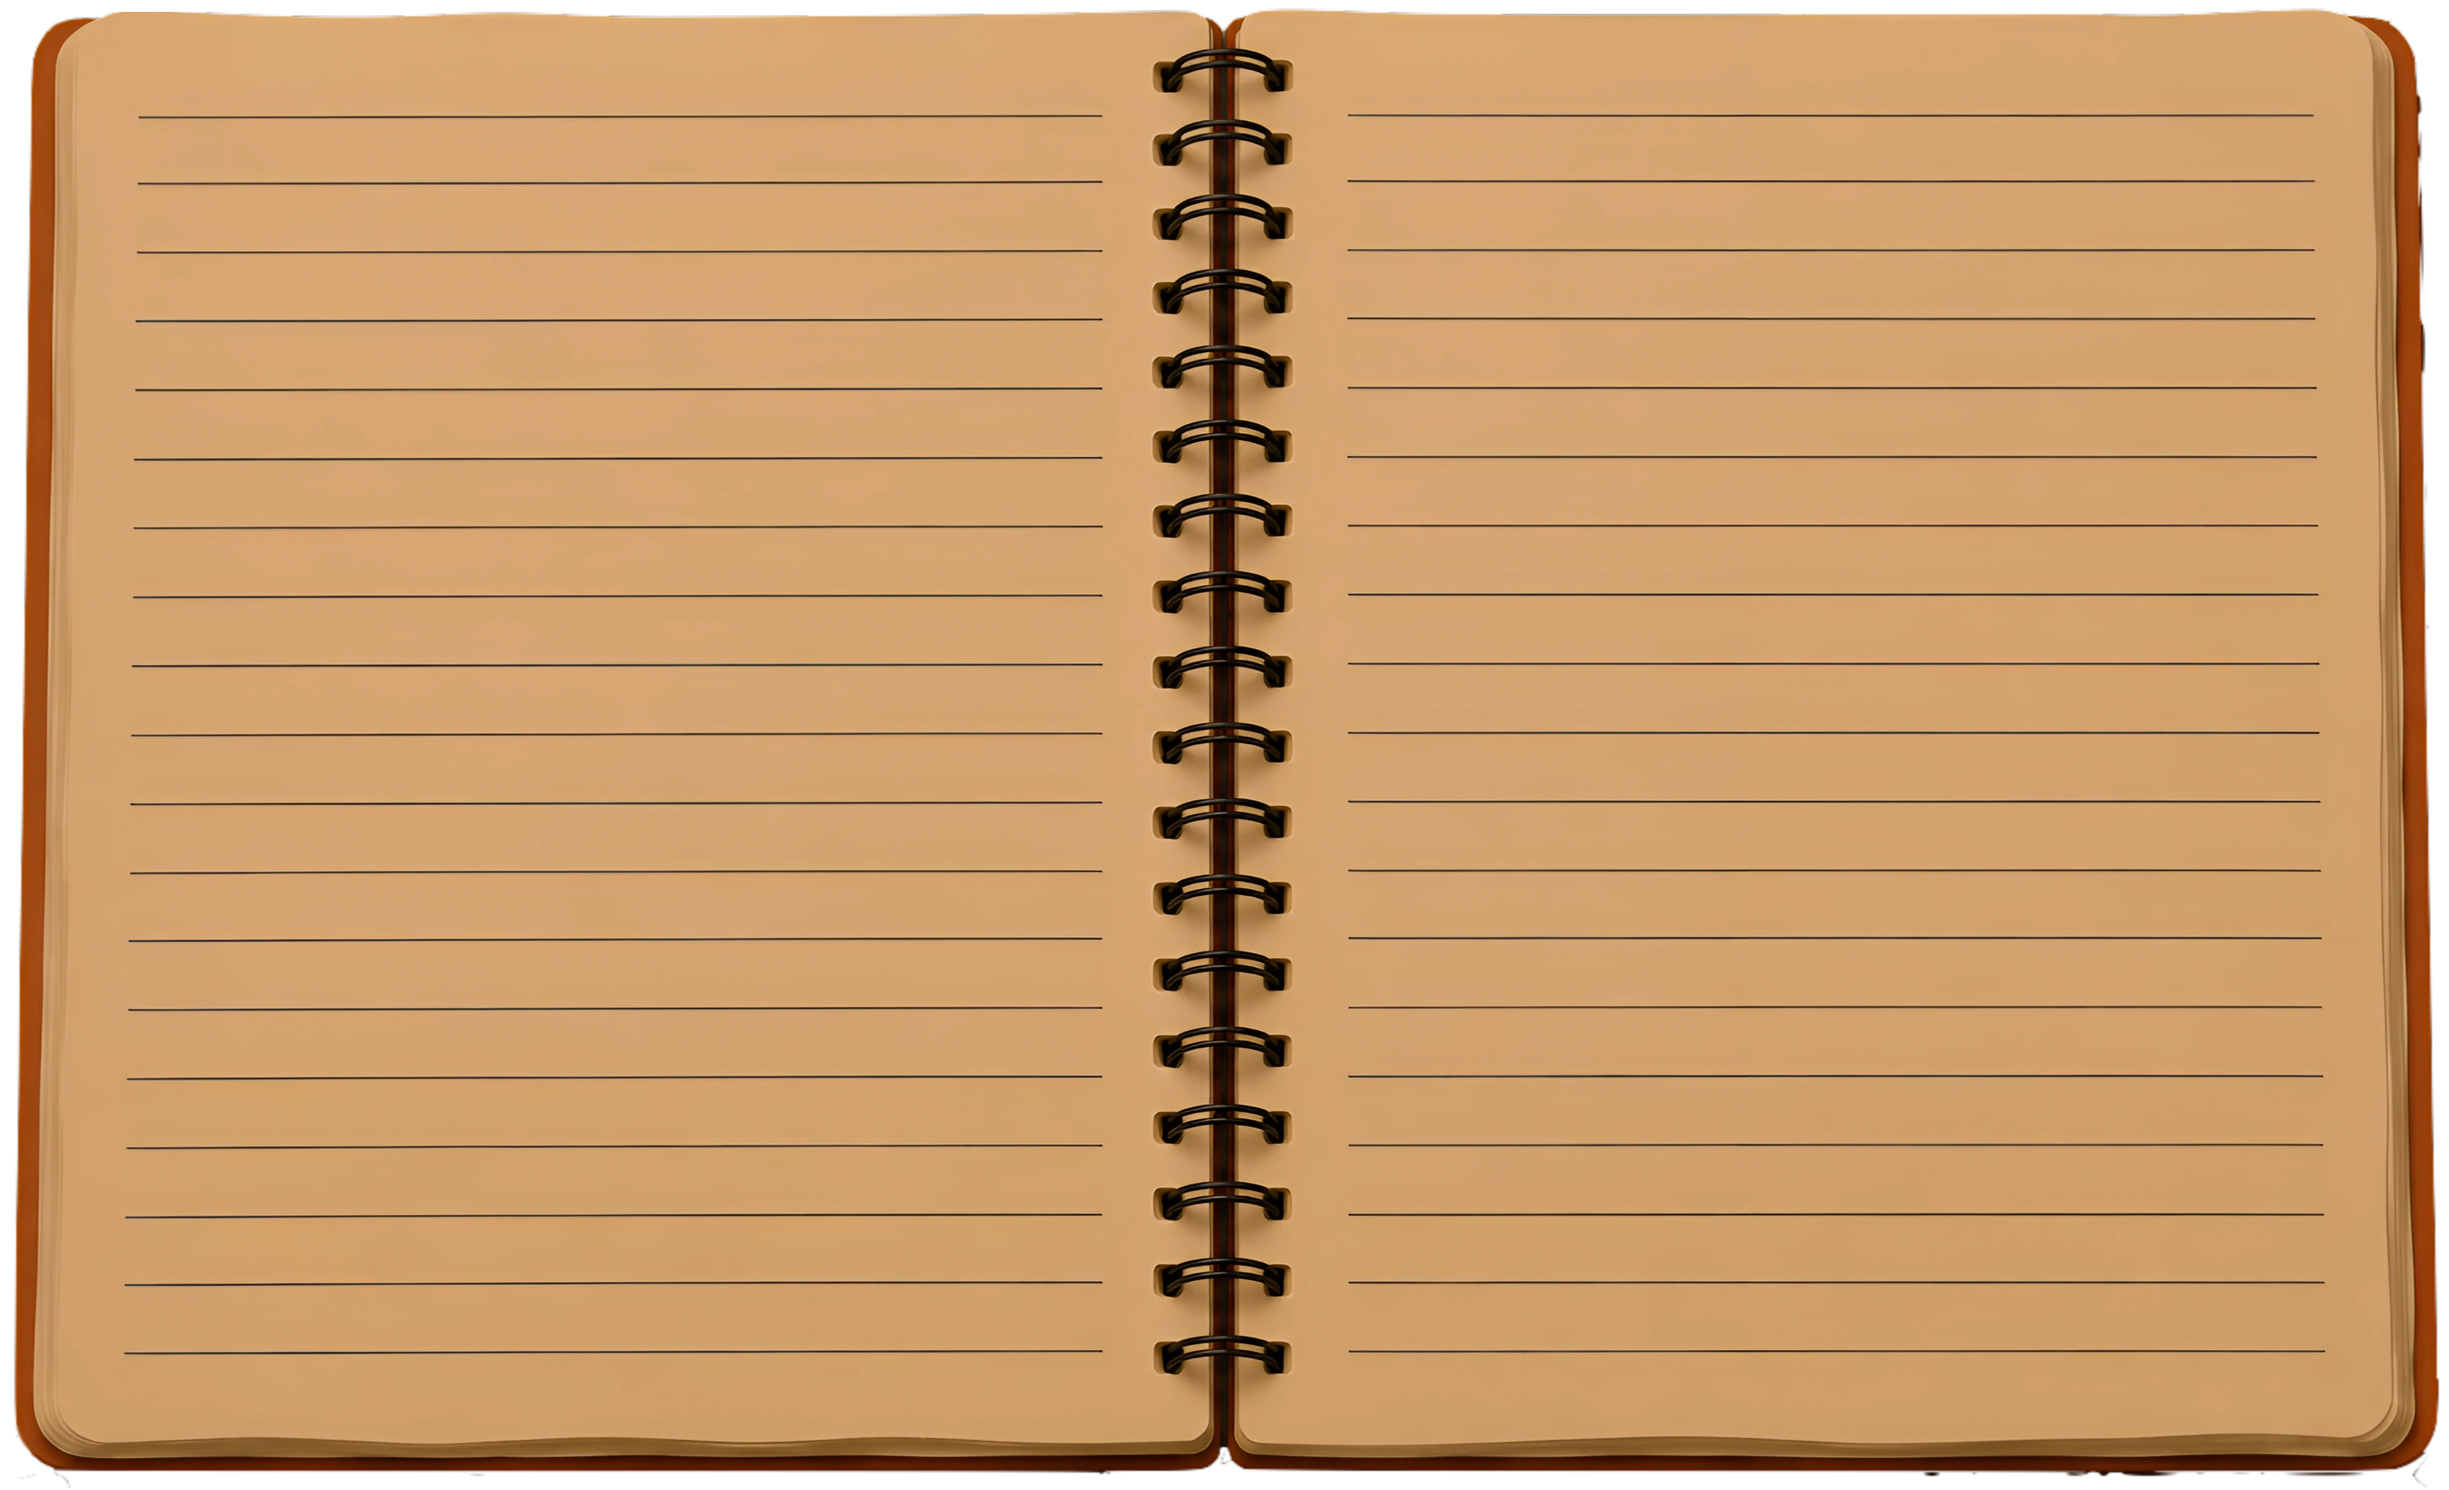
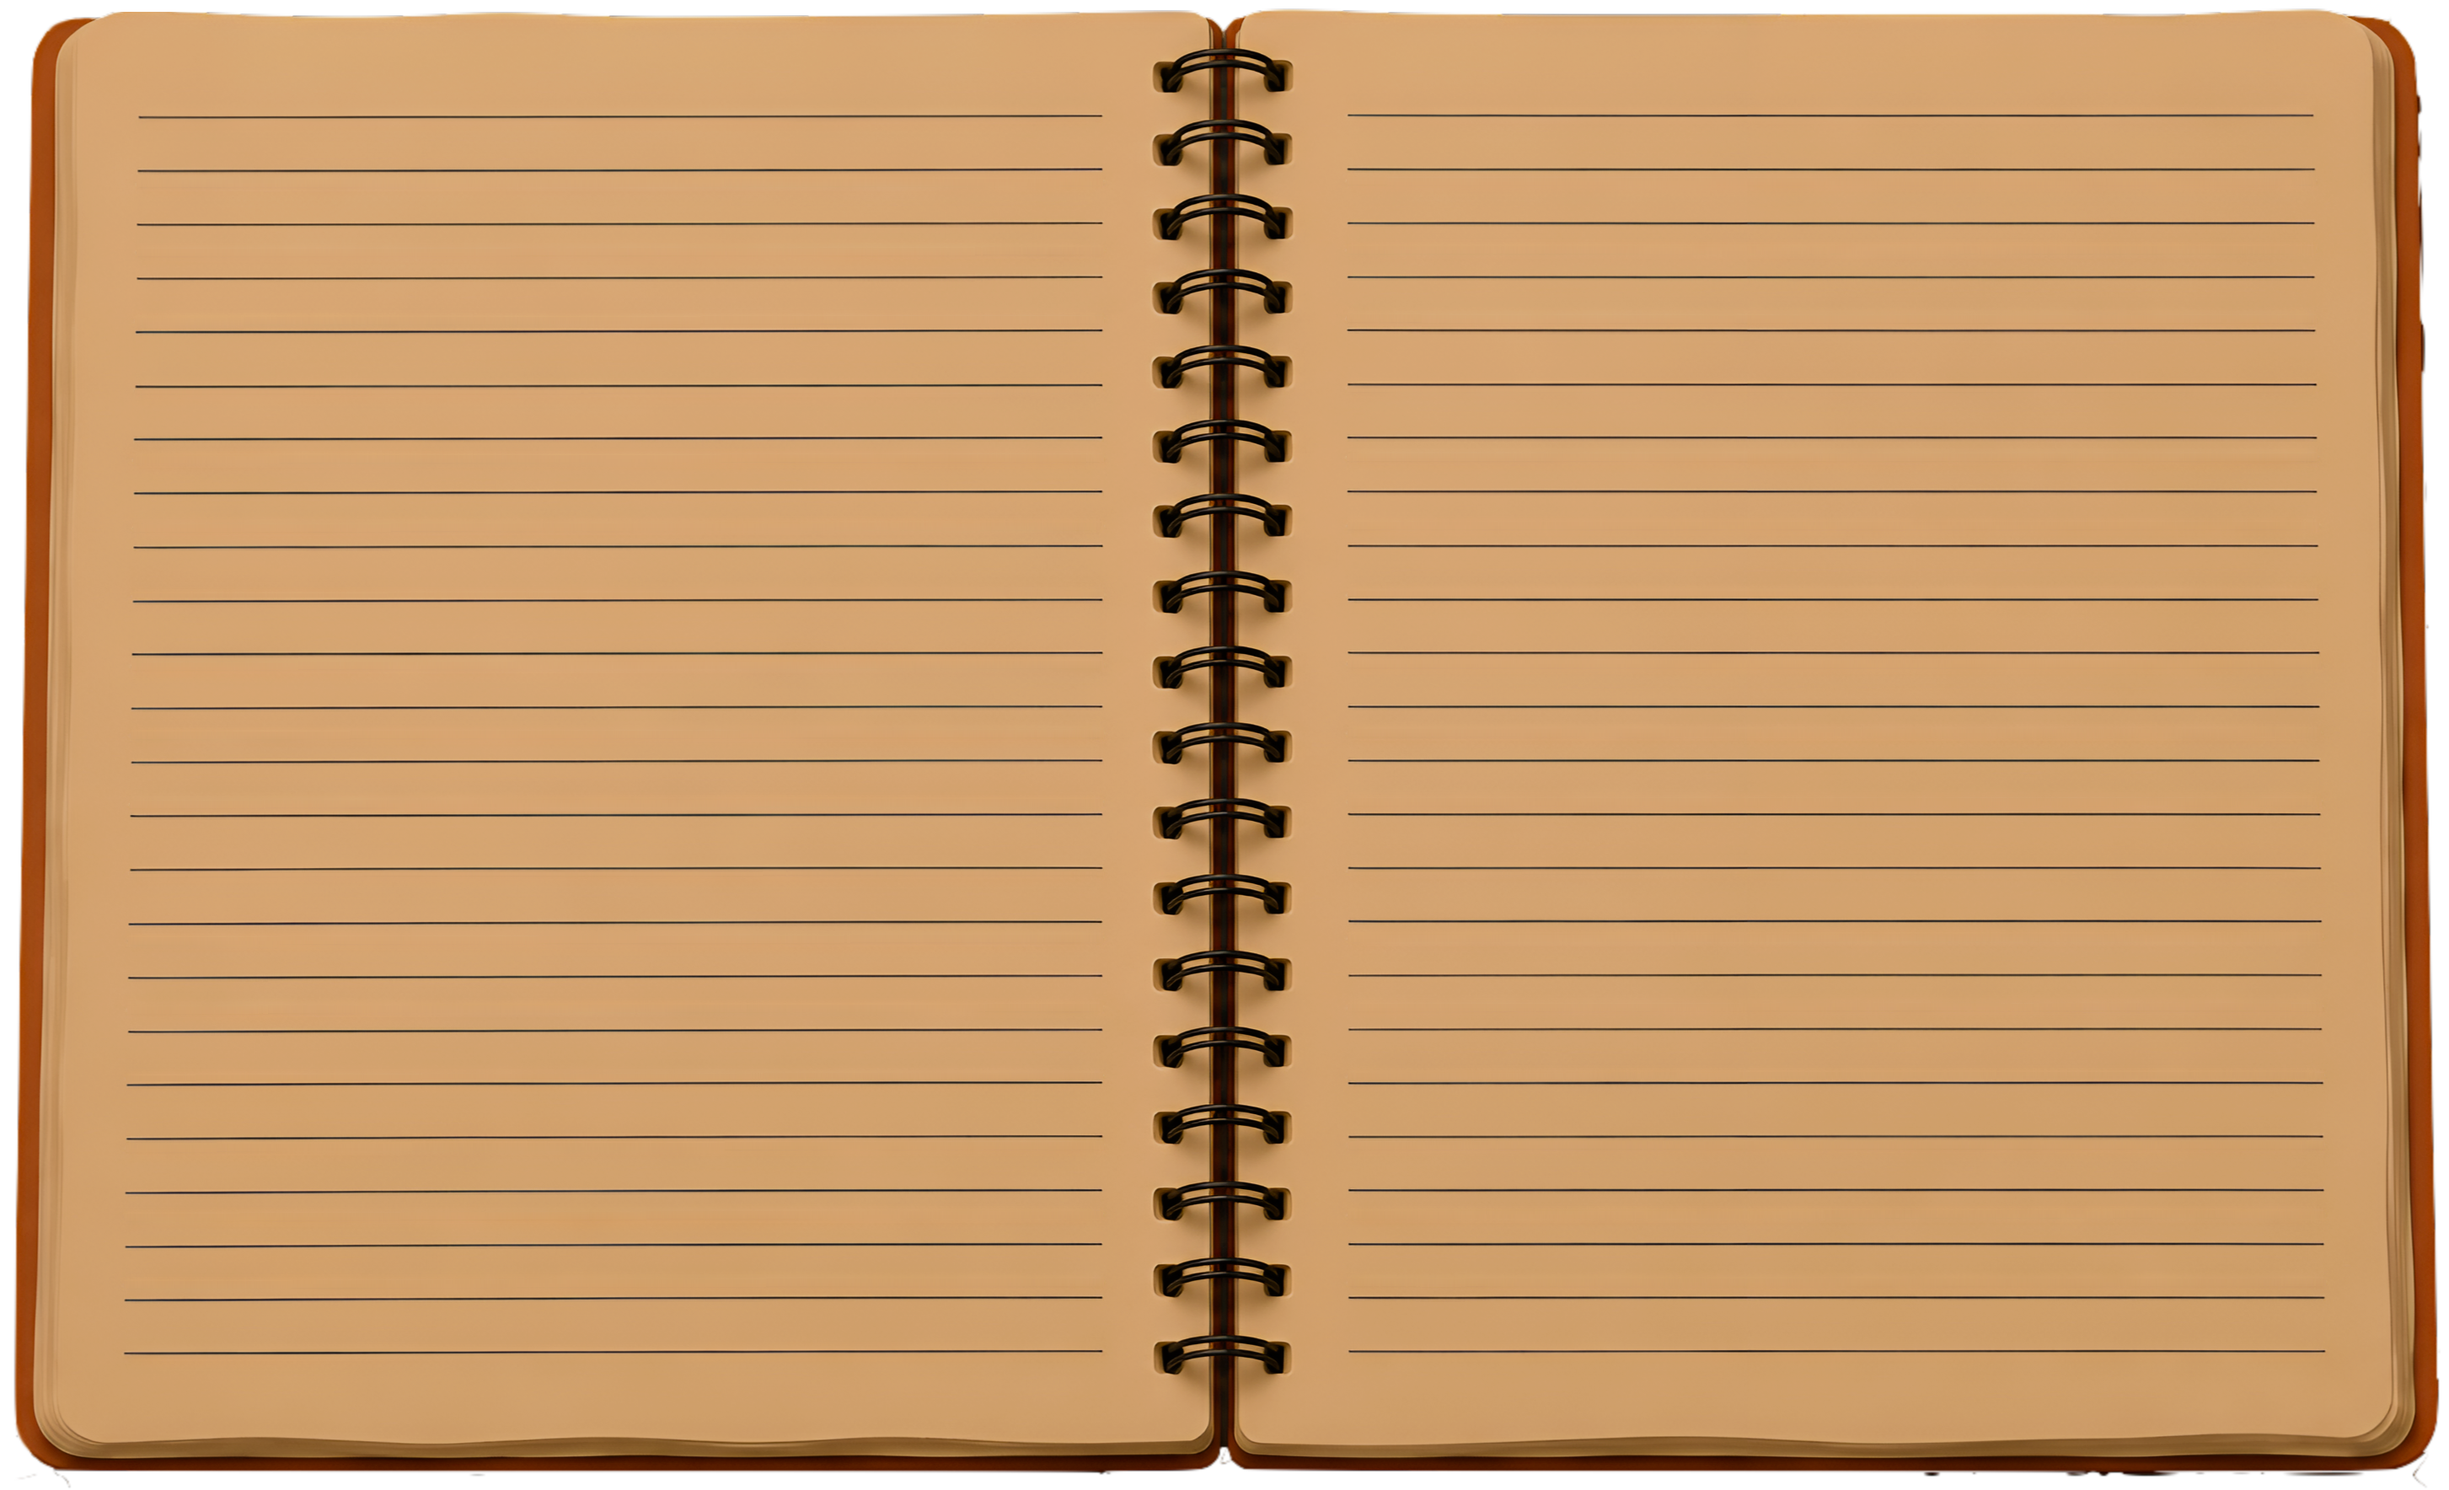
update notebook asset line spacing

diff --git a/src/components/AboutMe.css b/src/components/AboutMe.css
@@ -51,7 +51,7 @@
     position: relative;
     z-index: 4;
     box-sizing: border-box;
-    padding: 5.53% 6%; /* box + paddingto start text off in writeable areas of notebook*/
+    padding: 5.3% 4.2% 0 6%; /* box + paddingto start text off in writeable areas of notebook*/
 }
 
 .aboutme-title-1 {
@@ -63,13 +63,13 @@
 
 .aboutme-text {
     font: 1.6cqw "Arvo";
-    line-height: 2.81cqw; /*calculated from notebok size and physical line height between lines*/
+    line-height: 2.192cqw; /* Matches the notebook's 64px ruled spacing at its 2906px source width. */
 }
 
 .aboutme-text-withstar {
     font: 1.6cqw "Arvo";
     color: var(--color-bright-plum);
-    line-height: 2.81cqw;
+    line-height: 2.192cqw;
 }
 
 .aboutme-portrait { /* Source dimensions: 3213 × 4388. */
@@ -88,13 +88,13 @@
 @media (max-width: 910px) {
     .aboutme-text {
         font: 1.6cqw "Arvo";
-        line-height: 2.86cqw; /*calculated from notebok size and physical line height between lines*/
+        line-height: 2.2cqw;
     }
 
     .aboutme-text-withstar {
         font: 1.6cqw "Arvo";
         color: var(--color-bright-plum);
-        line-height: 2.86cqw;
+        line-height: 2.2cqw;
     }
 }
 
@@ -152,14 +152,14 @@
 
 .page1-longhighlight-1 {
     width: 34%;
-    top: 21.5%;
+    top: 18%;
     left: 30.7%;
     z-index: 6;
 }
 
 .page1-longhighlight-2 {
     width: 38.6%;
-    top: 34%;
+    top: 27.8%;
     left: 23.3%;
     z-index: 6;
 

diff --git a/src/components/AboutMe.tsx b/src/components/AboutMe.tsx
@@ -26,17 +26,20 @@ export default function AboutMe() {
                     <a className="aboutme-link" href="https://github.com/emtato/tempo." target="_blank">tempo.</a>
                     <span>,</span>
                 </div>
-                <div className="aboutme-text"> and my software dev internship at ontario gov</div>
-                 <img className="aboutme-placed-item page1-longhighlight-2 aboutme-highlight" alt="a"
+                <div className="aboutme-text"> and my software dev internship</div>
+                <img className="aboutme-placed-item page1-longhighlight-2 aboutme-highlight" alt="a"
                      src="/assets/browser/content/about-me/long-highlight.png"/>
-                <div className="aboutme-text"> </div>
-
-                <div className="aboutme-text">i love cats</div>
-                <div className="aboutme-text">i love 2d men</div>
-
-
+                <div className="aboutme-text">at the ontario government</div>
+                <div className="aboutme-text">☆</div>
+                <div className="aboutme-text">i love making things that feel fun and meaningful to me</div>
+                <div className="aboutme-text"> and nothing beats seeing all the pieces finally come together ☆</div>
             </div>
+            <div className="aboutme-text">i love cats</div>
+            <div className="aboutme-text">i love 2d men</div>
+
+
         </div>
+
     </div>
 }
 
